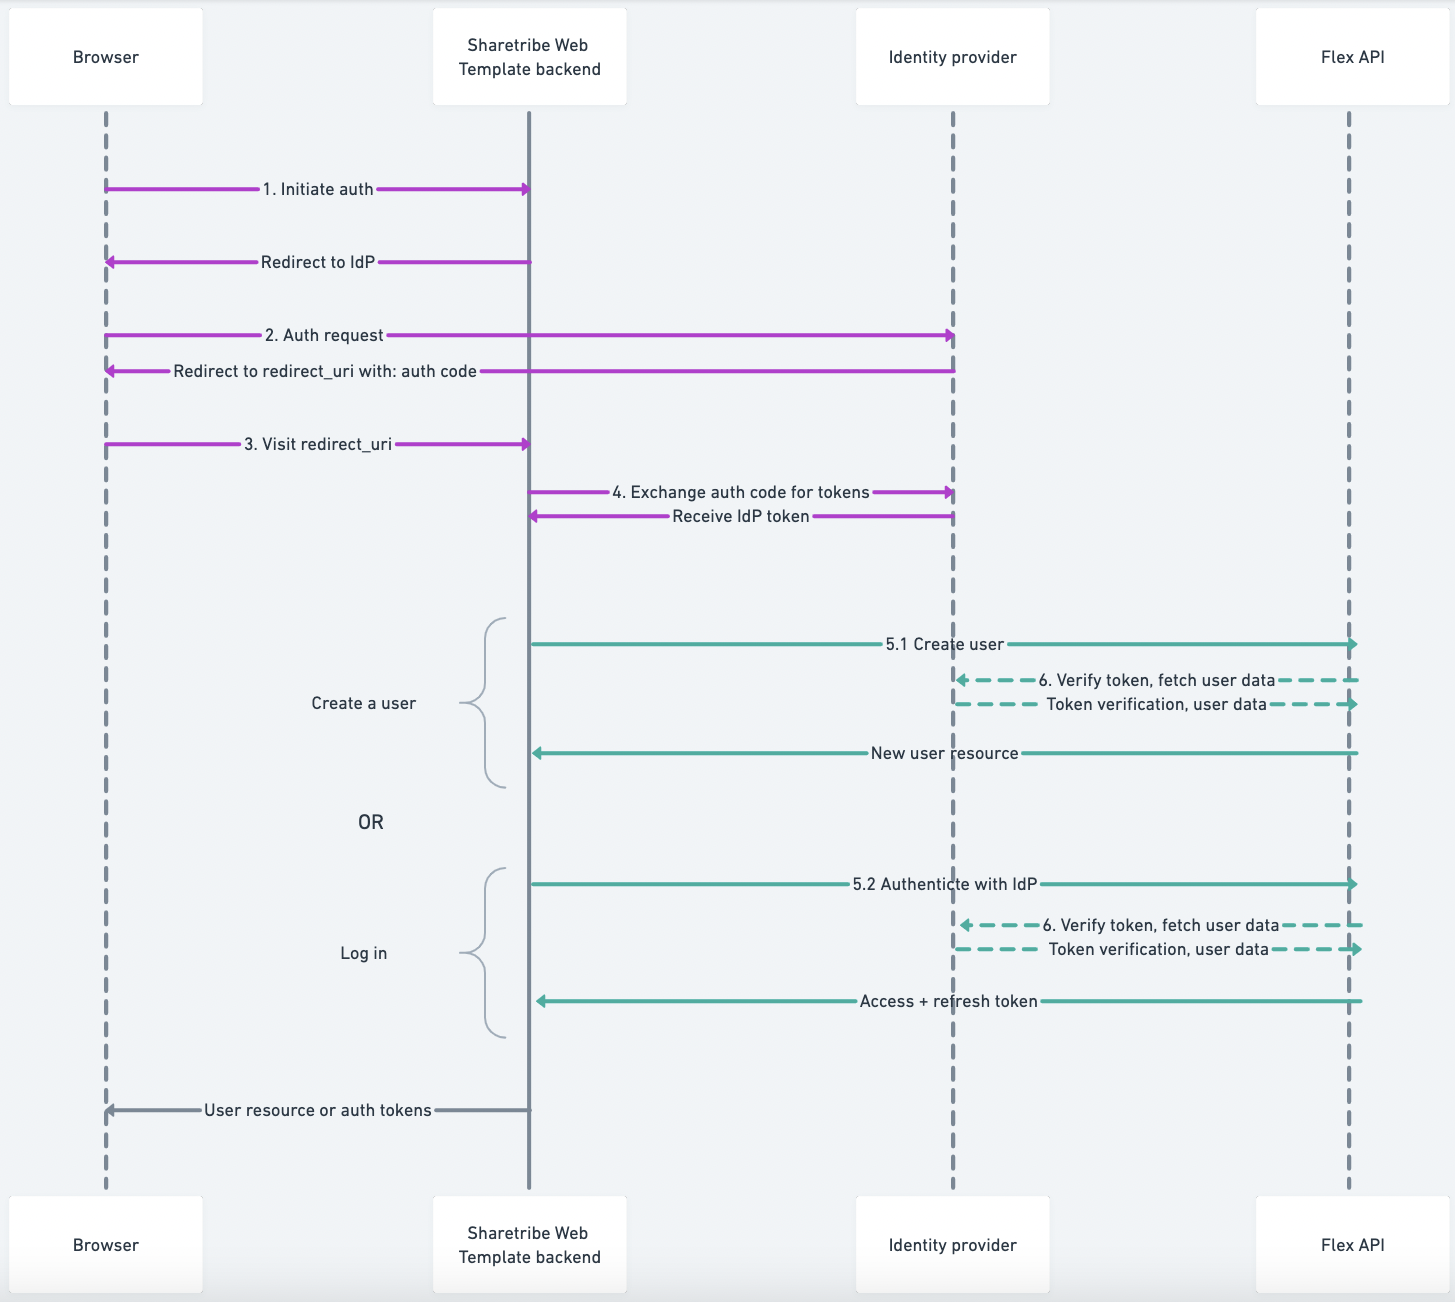
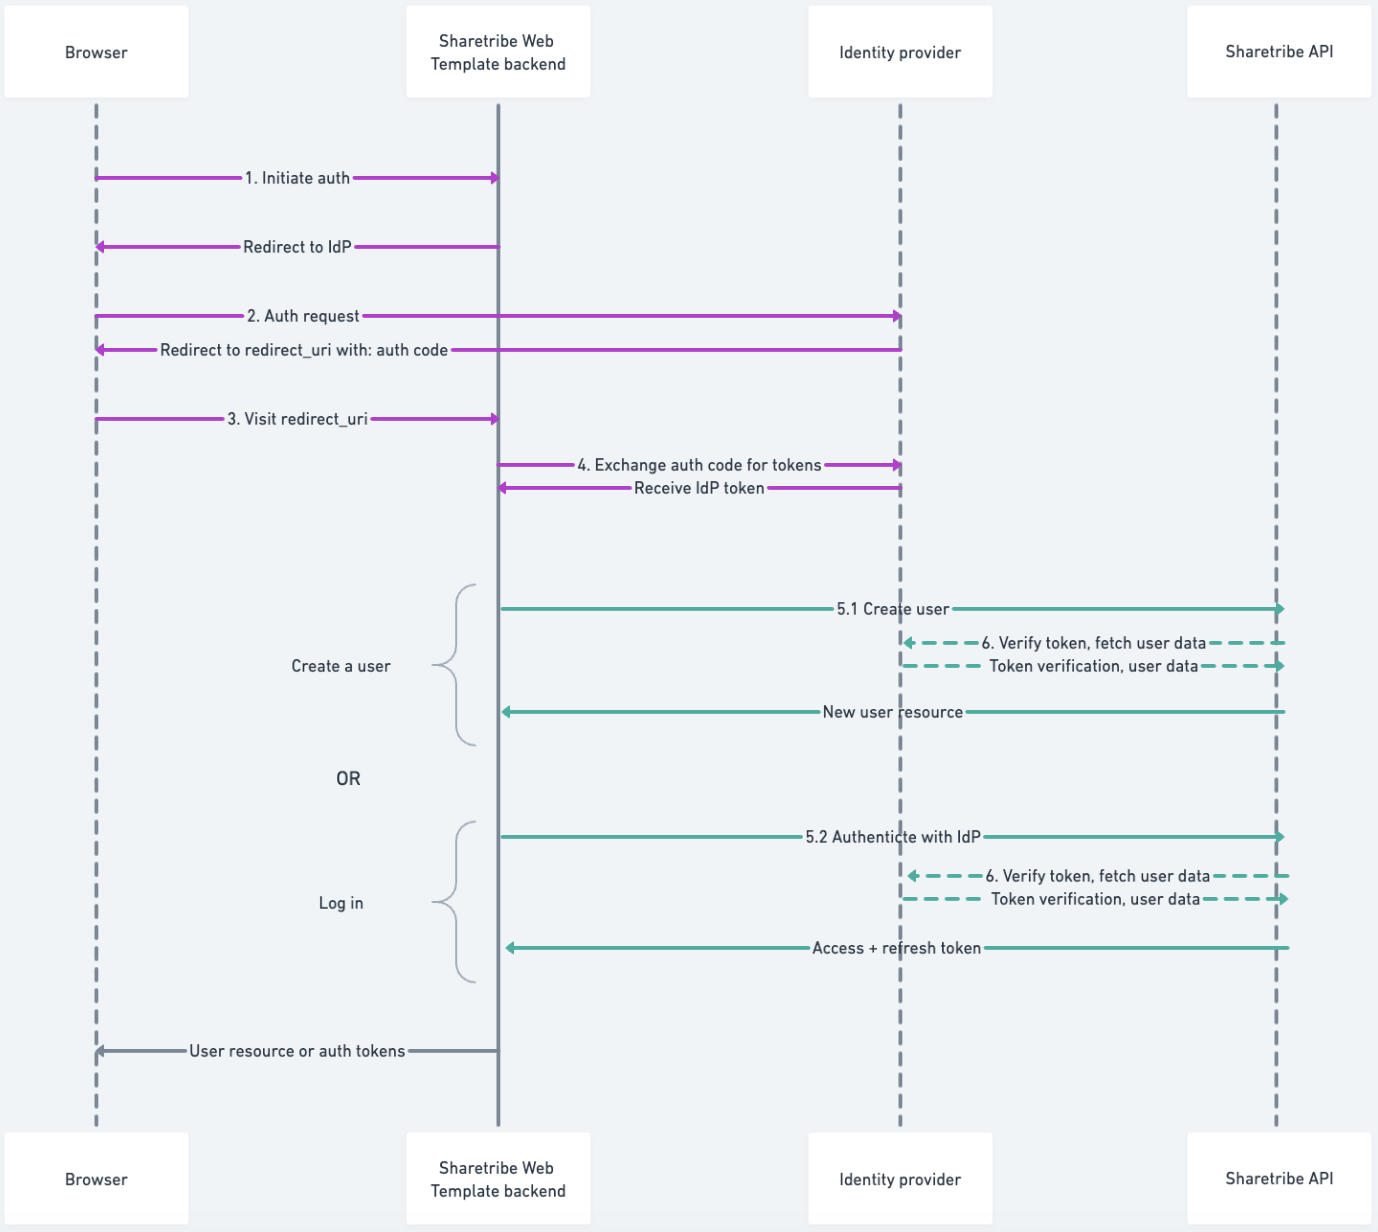
Add small fixes (#771)
* Add Flex disclaimer to Zapier article
* Fix dev slack name
* Remove plan indicators
* Fix API name in auth flow image

diff --git a/src/components/ArticlePage/Footer.js b/src/components/ArticlePage/Footer.js
@@ -33,7 +33,7 @@ const RegularFooter = props => {
       <A href="mailto:hello@sharetribe.com">email</A>, or consult the Sharetribe
       Developer Community at{' '}
       <Link to="https://www.sharetribe.com/dev-slack">
-        Sharetribe's Flex development Slack Channel
+        Sharetribe Developers Slack Channel
       </Link>
       . You can also contact our support team through the chat widget in Flex
       Console.

diff --git a/src/docs/howto-search/change-search-filters-in-ftw/index.md b/src/docs/howto-search/change-search-filters-in-ftw/index.md
@@ -96,14 +96,13 @@ added to the data in order for API to index it for search. Adding search
 schema can be done by the
 [Sharetribe CLI](/introduction/getting-started-with-sharetribe-cli/).
 
-<plan tier="extend" feature="Access to Sharetribe CLI"></plan> Once a
-public data attribute is added to the listings and the data attribute is
-indexed, the listing searches can be filtered by that attribute by
-adding a query parameter that consists of a preceding "pub\_" and the
-attribute name, so for the _capacity_ attribute the parameter would be
-"pub_capacity". You might have guessed that "pub\_" refers to **public
-data**. Similarly, "meta\_" would refer to **metadata**, which is
-another type of extended data.
+Once a public data attribute is added to the listings and the data
+attribute is indexed, the listing searches can be filtered by that
+attribute by adding a query parameter that consists of a preceding
+"pub\_" and the attribute name, so for the _capacity_ attribute the
+parameter would be "pub_capacity". You might have guessed that "pub\_"
+refers to **public data**. Similarly, "meta\_" would refer to
+**metadata**, which is another type of extended data.
 
 Further reading on public data can be found in the
 [listing extended data concepts article](/concepts/listing-extended-data/)

diff --git a/src/docs/concepts-transactions/transaction-process/index.md b/src/docs/concepts-transactions/transaction-process/index.md
@@ -14,12 +14,6 @@ Your marketplace exists to connect supply and demand. You have a unique
 vision of how this connection should happen. Sharetribe makes this
 custom vision possible using its composable transaction process.
 
-<plan tier="launch">
-
-Live transactions are available in the Launch plan and above.
-
-</plan>
-
 ## Users interact through transactions
 
 Any time users connect with each other on a Sharetribe marketplace, they
@@ -175,8 +169,6 @@ that can be customized using the Sharetribe CLI. You can also edit the
 content of the transaction notifications in the Console, under Build >
 Content > Email texts.
 
-<plan tier="extend" feature="Access to Sharetribe CLI"></plan>
-
 <transactionprocesscomponentscarousel title="Transaction process components">
 
 </transactionprocesscomponentscarousel>
@@ -216,8 +208,6 @@ Template”, you can read more about it
 As all marketplaces’ have their own characteristics, it is common to
 need some customization to the default transaction process to make it
 more suitable to the customers’ needs.
-
-<plan tier="extend" feature="Customizing transaction processes"></plan>
 
 However, quite often it's helpful to start building your process by
 making slight customizations to the default process. Typical minor

diff --git a/src/docs/howto-events/set-up-and-use-zapier/index.md b/src/docs/howto-events/set-up-and-use-zapier/index.md
@@ -24,8 +24,6 @@ which are automated workflows or sequences of actions that get kicked
 off by a trigger. An event in one app can set in motion an action in a
 second app and another action in a third app etc.
 
-<plan tier="extend" feature="Access to the Zapier integration"></plan>
-
 Once you’ve created a Zapier account and connected your Sharetribe
 marketplace account, you can use nine different events in your
 marketplace as a trigger for actions in other apps. Zapier can also
@@ -42,8 +40,8 @@ posted to any of your marketplace’s social accounts. And so much more.
 
 <info>
 
-The videos in this article refer to _Flex_, which is an old name for the
-Sharetribe Developer Platform.
+The videos below mention Sharetribe Flex, which has since their
+publication become just Sharetribe.
 
 </info>
 
@@ -211,6 +209,13 @@ the different steps. More templates are coming.
 - [Send a tweet for each new listing with name & listing URL](https://zapier.com/shared/967732338e072db4edc8332e0de182deb0feef6b)
 
 ## Video tutorials
+
+<info>
+
+The videos below mention Sharetribe Flex, which has since their
+publication become just Sharetribe.
+
+</info>
 
 ### How to connect Sharetribe to Zapier
 

diff --git a/src/docs/concepts-extended-data/transaction-extended-data/index.md b/src/docs/concepts-extended-data/transaction-extended-data/index.md
@@ -28,8 +28,6 @@ to the transaction, which renders it visible within the transaction. In
 addition, a transaction process can have an action to
 [update transaction protected data](/references/transaction-process-actions/#actionupdate-protected-data).
 
-<plan tier="extend" feature="Customizing your transaction process"></plan>
-
 Protected data can be used to store any transaction specific information
 that the users are allowed to modify. Most common use cases include
 customer or provider contact information, but e.g. for more complex
@@ -44,8 +42,6 @@ third party services whose information is transaction specific, like
 discount services, you can store information such as integration
 references or discount codes or percentages in transaction metadata.
 Metadata can also be used to tag transactions for analytics purposes.
-
-<plan tier="extend" feature="Access to Integration API"></plan>
 
 You need a trusted context for updating transaction metadata – either a
 privileged transition, or a secure server endpoint. You can also build a

diff --git a/src/docs/concepts-extended-data/user-extended-data/index.md b/src/docs/concepts-extended-data/user-extended-data/index.md
@@ -27,8 +27,6 @@ endpoint. Operators can see all user extended data through the
 [user retrieval endpoints](https://www.sharetribe.com/api-reference/integration.html#users)
 in Integration API.
 
-<plan tier="extend" feature="Access to Integration API"></plan>
-
 Authenticated users are able to modify their own public, protected and
 private extended data through the
 [current user creation and update endpoints](https://www.sharetribe.com/api-reference/marketplace.html#current-user)
@@ -63,8 +61,6 @@ transaction participants may want to only reveal to the other
 participant of the transaction. This type of information can include
 contact information such as phone numbers, or e.g. instructions to
 access a listing's goods or services in some other way.
-
-<plan tier="extend" feature="Customizing your transaction process"></plan>
 
 As a part of your marketplace's transaction process, then, you can have
 an action that reveals the user's protected data in the transaction. In

diff --git a/src/docs/concepts-transactions/privileged-transitions/index.md b/src/docs/concepts-transactions/privileged-transitions/index.md
@@ -18,12 +18,6 @@ transitioned and by defining who can perform the transition. This way
 transition requests have built-in validation of who can invoke them and
 in what state of the transaction flow.
 
-<plan tier="launch">
-
-Live transactions are available in the Launch plan and above.
-
-</plan>
-
 However, there are moments when more control is required on who can
 initiate a transition and especially with what kind of parameters. Take
 discounts on pricing by leveraging discount coupons managed by a 3rd
@@ -93,9 +87,6 @@ commission.
 The Integration API
 [makes it possible to invoke transitions](https://www.sharetribe.com/api-reference/integration.html#transition-transaction)
 for which the `:actor` is set to `:actor.role/operator`.
-
-<plan tier="extend" feature="Integration API access">
-</plan>
 
 As the Integration API authentication requires knowledge of the
 integration application's client secret and is meant to be used only

diff --git a/src/docs/concepts-messages/email-notifications/index.md b/src/docs/concepts-messages/email-notifications/index.md
@@ -50,8 +50,6 @@ You can preview and customise built-in emails using the
 in the Sharetribe Console. You can find the editor in the Console under
 the Build > Advanced section.
 
-<plan tier="extend" feature="The email template code editor"></plan>
-
 The email templates use the
 [Handlebars template language](/references/email-templates/#handlebars).
 The most prominent use of the handlebar templates is the `t` helper,
@@ -101,8 +99,6 @@ Build > Content > Email texts. You can preview your changes, as well as
 update message keys and add or delete transaction notifications, with
 the
 [Sharetribe CLI](/how-to/edit-transaction-process-with-sharetribe-cli/).
-
-<plan tier="extend" feature="Customizing your transaction notifications"></plan>
 
 The
 [template sub-directory](https://github.com/sharetribe/example-processes/tree/master/default-booking/templates)

diff --git a/src/docs/concepts-users-and-authentication/users-and-authentication-in-flex/index.md b/src/docs/concepts-users-and-authentication/users-and-authentication-in-flex/index.md
@@ -116,8 +116,6 @@ users with their own sign-in credentials. Instead, Integration API can
 be used to create server-side integrations to external systems, or to
 retrieve data for custom marketplace dashboards.
 
-<plan tier="extend" feature="Integration API access"></plan>
-
 ### Authenticating to Sharetribe APIs
 
 Sharetribe marketplace users need to sign up with their email address to
@@ -230,8 +228,6 @@ The Integration API offers access to the entire marketplace data. This
 includes all users, listings, transactions, and messages. To see what
 endpoints you can access using the Integration API, refer to the
 [Integration API reference](https://www.sharetribe.com/api-reference/integration.html).
-
-<plan tier="extend" feature="Integration API access"></plan>
 
 To access the Integration API you need a valid access token obtained
 through

diff --git a/src/docs/concepts-integrations/integrations/index.md b/src/docs/concepts-integrations/integrations/index.md
@@ -56,8 +56,6 @@ Through the Integration API, operators can enable third party tools to
 manage users, listings, transactions, bookings, stock reservations, and
 more.
 
-<plan tier="extend" feature="Access to Integration API"></plan>
-
 Due to its powerful nature, the Integration API should **only ever be
 used from a secure context**, such as your client application server or
 a separate backend application. Here, too, the template server is an
@@ -86,8 +84,6 @@ works by harnessing a subset of Sharetribe events and allowing operators
 to connect any of the other
 [5000+ tools and solutions](https://zapier.com/apps/) in the Zapier
 ecosystem.
-
-<plan tier="extend" feature="Access to the Zapier integration"></plan>
 
 The Sharetribe Zapier integration makes it easier to take action in your
 favorite business tools, such as

diff --git a/src/docs/howto-events/view-events-with-flex-cli/index.md b/src/docs/howto-events/view-events-with-flex-cli/index.md
@@ -16,10 +16,9 @@ Sharetribe CLI (Command-line interface) is a tool for examing and
 changing your marketplace's advanced configurations such as transaction
 processes and email templates.
 
-<plan tier="extend" feature="Access to Sharetribe CLI"></plan> This
-guide expects that you have already installed Sharetribe CLI and are
-logged in with your API key. If not, it's recommended to first read the
-tutorial
+This guide expects that you have already installed Sharetribe CLI and
+are logged in with your API key. If not, it's recommended to first read
+the tutorial
 [Getting started with Sharetribe CLI](/introduction/getting-started-with-sharetribe-cli/).
 
 In this guide, we will learn how the events of a marketplace can be

diff --git a/src/docs/concepts-pricing-and-commissions/commissions-and-monetizing-your-platform/index.md b/src/docs/concepts-pricing-and-commissions/commissions-and-monetizing-your-platform/index.md
@@ -23,13 +23,6 @@ Marketplace Academy has
 describing different pricing models and the tradeoffs behind different
 options.
 
-<plan tier="launch">
-
-Online payments in the Live environment are available in the Launch plan
-and above.
-
-</plan>
-
 As background, familiarizing yourself with
 [line items](/concepts/pricing/#line-items) and
 [privileged transitions](/concepts/privileged-transitions/) gives you a
@@ -235,5 +228,3 @@ you can integrate a third-party service such as
 [Chargebee](https://www.chargebee.com/) or
 [Stripe billing](https://stripe.com/en-fi/billing) to process
 subscription payments from users who want access to your marketplace.
-
-<plan tier="extend" feature="Using Integration API"></plan>
